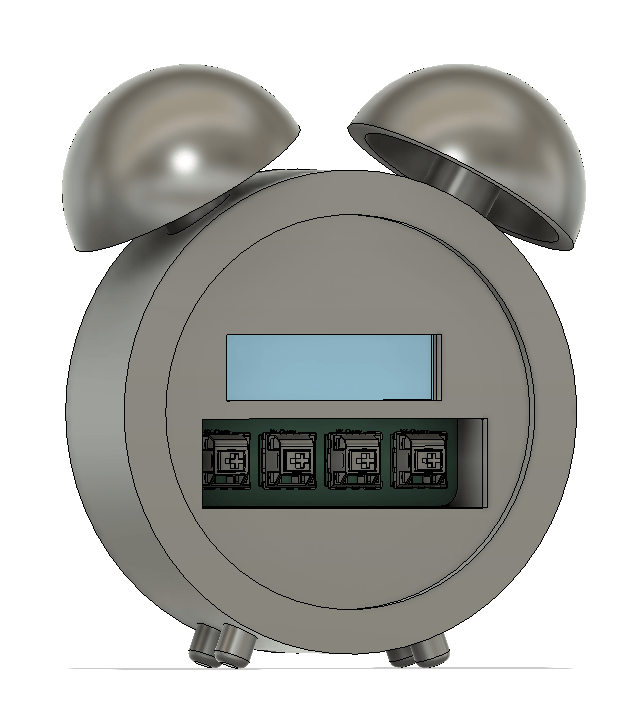
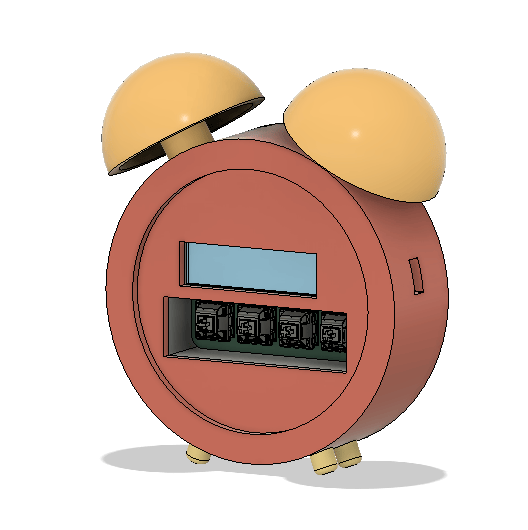
Added the Backgrounds and updated the read me

diff --git a/README.md b/README.md
@@ -1,2 +1,59 @@
-# Hollow Alarm
-An Alarm with Hollow Knight features
+# HollowAlarm
+
+    HollowAlarm was my ship for the Blare Mission of Stardance Hackclub
+    HollowAlarm features a simple clock like shape design with 4 keys to control
+
+
+# Features:
+
+    - 2.25 Inch TFT Display
+    - 4 Keys
+    - Buzzer... cuz its and alarm
+
+
+# CAD Model:
+
+    HollowPad is divided in 4 parts.
+    - the main shell where eveything connects that include a sorta of cabinet design and dovetail joints to connect to the shell of the alarm.
+    - The shell itself consisting of the front piece and back piece to close the clock design
+
+    Everything was in Fusion cuz its lowk fire
+![HollowPad 3D Render](assets/CAD.png)
+
+
+# PCB
+    It was made in KiCad. Only requiring extra footprints ansd symbols provided by the Blare page!
+
+    The footprints for the Switches are standart MX style Switches!
+
+**Schematic:**
+![NanoKey Schematic](assets/Schematic.png)
+
+**PCB Layout:**
+![NanoKey PCB Layout](assets/PCB.png)
+
+    Also it has a lot of small silkscreens cuz they lowk cool!
+
+# Firmware Overview
+    The firmware can be described as spaghetti code secured by hopes and dreams.
+    It gives each button its own function and has a way to swap between 4 background which I made! More can be added by changing the background.h file on the firmware
+
+![NanoKey PCB Layout](production/Alarm%20BG1.png) 
+![NanoKey PCB Layout](production/Alarm%20BG2.png)
+![NanoKey PCB Layout](production/Alarm%20BG3.png)
+![NanoKey PCB Layout](production/Alarm%20BG4.png)
+
+# BOM:
+    Here should be everything you need to make this hackpad
+
+    - 4x Cherry MX Switches
+    - 4x DSA Keycaps (or you can make some if u want)
+    - 1x Buzzer
+    - 1x 2.25" 284x76 TFT Display
+    - 1x XIAO ESP32C3
+    - 1x Case (4 Printed Parts)
+
+
+# Extra stuff
+    To anyone that is reading the end of this READ ME i wana say thanks for atleast checking out my project.
+    With that thanks again and Good Luck on your projects!!!
